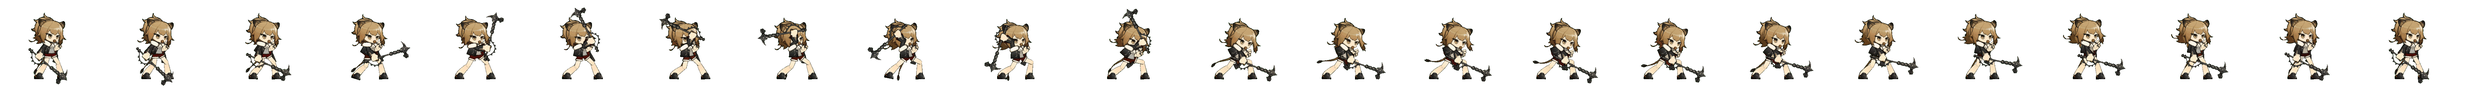
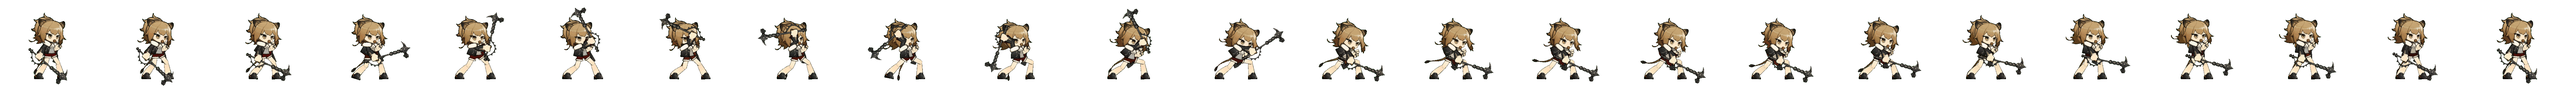
Did a bunch of stuff (i.e. skid)

Changed region(s): [[0.0, 0.086, 0.9975, 0.9176]]

diff --git a/src/siegeGame/Player.java b/src/siegeGame/Player.java
@@ -4,11 +4,13 @@ import java.awt.Color;
 import java.awt.Graphics2D;
 import java.awt.Image;
 import java.awt.Toolkit;
+import java.awt.geom.AffineTransform;
 import java.awt.geom.Point2D;
 import java.util.ArrayList;
 
 public class Player {
 	public boolean debug = true;
+	public final double GRAVITY = 1.5;
 
 	public static Image walk = Toolkit.getDefaultToolkit().getImage("assets/walk.png");
 	public static Image IDLE = Toolkit.getDefaultToolkit().getImage("assets/idle.png");
@@ -20,6 +22,7 @@ public class Player {
 	public static Image strike = Toolkit.getDefaultToolkit().getImage("assets/air_strike.png");
 	public static Image landing = Toolkit.getDefaultToolkit().getImage("assets/landing.png");
 	public static Image attack = Toolkit.getDefaultToolkit().getImage("assets/attack_fast.png");
+	public static Image[] skid = {Toolkit.getDefaultToolkit().getImage("assets/skid.png"),Toolkit.getDefaultToolkit().getImage("assets/skid2.png")};
 
 	private int direction = 1;
 	private double xspeed = 0;
@@ -78,6 +81,18 @@ public class Player {
 					width = MakeSureImageHasLoaded(attack);
 					System.out.println("Has set up normally" + width);
 				}
+				if (animationFrame == 10) {
+					isHitbox = true;
+					hitboxes.get(0).setActive(true, direction);
+					hitboxes.get(1).setActive(true, direction);
+				} else if (animationFrame == 12) {
+					hitboxes.get(0).setActive(false, direction);
+					hitboxes.get(1).setActive(false, direction);
+					hitboxes.get(2).setActive(true, direction);
+				} else if (animationFrame == 13) {
+					hitboxes.get(2).setActive(false, direction);
+					isHitbox = false;
+				}
 
 				if (direction == 1) {
 					g2.drawImage(attack, x - 115, y - 85 - 155, offset + x - 115, y + 340 - 85 - 155,
@@ -90,6 +105,7 @@ public class Player {
 				// check if end of animation without hardcoding number of frames
 				if (offset * animationFrame + 300 > width) {
 					state = State.GROUNDED;
+					animationFrame = 0;
 					System.out.println("Exited normally");
 				}
 			}
@@ -97,6 +113,10 @@ public class Player {
 				int offset = 300;
 				// Check if this is the first frame of the new animation
 				if (previousAnimation != Animation.JUMPSQUAT) {
+					isHitbox = false;
+					for (Hitbox box : hitboxes) {
+						box.setActive(false, direction);
+					}
 					animationFrame = 0;
 					previousAnimation = Animation.JUMPSQUAT;
 					width = MakeSureImageHasLoaded(jumpsquat);
@@ -109,7 +129,7 @@ public class Player {
 							y + 340 - 85 - 223, offset * animationFrame, 0, offset * animationFrame + offset, 340,
 							null);
 				}
-				animationFrame += 1;
+				animationFrame += 2;
 				// if (offset * animationFrame + 300 > width) {
 				// animationFrame -= 1;
 				// state = State.JUMPING;
@@ -118,6 +138,10 @@ public class Player {
 				int offset = 300;
 				// Check if this is the first frame of the new animation
 				if (previousAnimation != Animation.JUMPING) {
+					isHitbox = false;
+					for (Hitbox box : hitboxes) {
+						box.setActive(false, direction);
+					}
 					animationFrame = 0;
 					previousAnimation = Animation.JUMPING;
 					width = MakeSureImageHasLoaded(jumping);
@@ -214,6 +238,7 @@ public class Player {
 			} else if (state == State.LANDING) {
 				int offset = 300;
 				if (previousAnimation != Animation.LANDING) {
+					isHitbox = false;
 					for (Hitbox box : hitboxes) {
 						box.setActive(false, direction);
 					}
@@ -228,7 +253,7 @@ public class Player {
 					g2.drawImage(landing, offset + x - 36 - 67 - 32, y - 85 - 223, x - 36 - 67 - 32, y + 340 - 85 - 223,
 							offset * animationFrame, 0, offset * animationFrame + offset, 340, null);
 				}
-				animationFrame += 1;
+				animationFrame += 2;
 				if (offset * animationFrame + 300 > width) {
 					state = State.GROUNDED;
 				}
@@ -259,12 +284,30 @@ public class Player {
 				previousAnimation = Animation.WALKING;
 				width = MakeSureImageHasLoaded(walk);
 			}
-			if (direction == 1) {
-				g2.drawImage(walk, x - 5 - 67, y + 4 - 223, x + 195 - 67, y + 250 + 4 - 223, offset * animationFrame, 0,
-						offset * animationFrame + 200, 250, null);
+			// Special skidding animation for high speeds
+			if (Math.abs(xspeed)>10) {
+				// This is kind of slow, but only runs when skidding so it's probably fine
+				AffineTransform trans = new AffineTransform();
+				// trans rights
+				if (direction == 1) {
+					trans.translate((double)(x+72),(double)(y ));
+					trans.rotate( Math.toRadians(Math.abs(8-animationFrame)-10) );
+					trans.translate(-144, 15-223);
+					g2.drawImage(skid[0],trans,null);
+				} else {
+					trans.translate((double)(x),(double)(y ));
+					trans.rotate( Math.toRadians(-Math.abs(8-animationFrame)+10) );
+					trans.translate(-72, 15-223);
+					g2.drawImage(skid[1],trans,null);
+				}
 			} else {
-				g2.drawImage(walk, x + 195 - 67 - 4, y + 4 - 223, x - 5 - 67 - 4, y + 250 + 4 - 223,
-						offset * animationFrame, 0, offset * animationFrame + 200, 250, null);
+				if (direction == 1) {
+					g2.drawImage(walk, x - 5 - 67, y + 4 - 223, x + 195 - 67, y + 250 + 4 - 223, offset * animationFrame, 0,
+							offset * animationFrame + 200, 250, null);
+				} else {
+					g2.drawImage(walk, x + 195 - 67 - 4, y + 4 - 223, x - 5 - 67 - 4, y + 250 + 4 - 223,
+							offset * animationFrame, 0, offset * animationFrame + 200, 250, null);
+				}
 			}
 			animationFrame += 1;
 			if (offset * animationFrame + 300 > width) {
@@ -319,14 +362,16 @@ public class Player {
 			xspeed = 0;
 		}
 
-		// todo this needs checking
-		attack_cooldown -= 1;
-		if (isAttack && state == State.GROUNDED && attack_cooldown < 1) {
-			attack_cooldown = 23;
+		// Check for start of attack
+		//attack_cooldown -= 1;
+		if (isAttack && state == State.GROUNDED) {
+			System.out.println("Attacking");
+			//attack_cooldown = 19;
 			state = State.BASIC_ATTACK;
 		}
+		// Handle movement while attacking
 		if (state == State.BASIC_ATTACK) {
-			xspeed*=.7;
+			xspeed*=.8;
 			litx += xspeed;
 		}
 		// System.out.println("start"+xspeed);
@@ -351,14 +396,17 @@ public class Player {
 		}
 
 		// if not GROUNDED
-		if (state != State.GROUNDED && state!=State.BASIC_ATTACK) {
-			// if not in JUMPSQUAT, increased movement
+		if (state != State.GROUNDED) {
+			// if not in JUMPSQUAT, then in the air; this handles air maneuverability
 			if (state == State.JUMPING || state == State.HOVERING || state == State.DESCENDING) {
 				// System.out.println("Airborne"+xspeed);
 				if (state == State.HOVERING && isJump) {
-					yspeed -= .75;
+					yspeed += .25;
+				} else if (state == State.JUMPING && isJump) {
+					yspeed += GRAVITY-.5;
+				} else {
+					yspeed += GRAVITY;
 				}
-				yspeed += 1;
 				lity += yspeed;
 				xspeed = xspeed + (xMove);
 				litx += xspeed;
@@ -387,16 +435,25 @@ public class Player {
 			} else { // if in JUMPSQUAT, move slowly
 			}
 		} // transition from GROUNDED to jump squat
-		else if (isJump && (state == State.GROUNDED || state == State.BASIC_ATTACK)) {
-			System.out.println("Starting to jump");
-
+		else if (isJump && state == State.GROUNDED) {
+			//System.out.println("Starting to jump");
 			state = State.JUMPSQUAT;
 			xspeed *= .9;
 			litx += xspeed;
-		} // if GROUNDED and not in JUMPSQUAT
+		} // if GROUNDED and not in JUMPSQUAT, then handle walking stuff
 		else {
 			// System.out.println("WALKING");
 			xspeed = xMove * 5.5;
+			if (isShift) {
+				xspeed *= 3;
+			}
+			litx += xspeed;
+		}
+		
+		// All good games have jump-cancelling
+		if (isJump && state == State.BASIC_ATTACK) {
+			state = State.JUMPSQUAT;
+			xspeed *= .8;
 			litx += xspeed;
 		}
 
@@ -412,18 +469,11 @@ public class Player {
 				yoffset = -16 * (5 - (animationFrame - 5));
 			}
 		}
-		Point2D.Double left = new Point2D.Double(litx - Screen.scrollx - 15, lity - 45 - Screen.scrolly + yoffset);
-		Point2D.Double left2 = new Point2D.Double(litx - Screen.scrollx - 15, lity - 150 - Screen.scrolly + yoffset);
-		Point2D.Double right = new Point2D.Double(litx - Screen.scrollx + 77, lity - 45 - Screen.scrolly + yoffset);
-		Point2D.Double right2 = new Point2D.Double(litx - Screen.scrollx + 77, lity - 150 - Screen.scrolly + yoffset);
-		int wallLevel = screen.checkHorizontalCollision(left, left2, right, right2);
-		if (wallLevel != -1000001) {
-			litx = wallLevel + Screen.scrollx;
-			xspeed = 0;
-		}
 
+		// Check if (airborne) player has their HEAD in a CEILING or are about to LAND
 		if (state != State.GROUNDED && state != State.JUMPSQUAT && state != State.LANDING
 				&& state != State.BASIC_ATTACK) {
+			// Find location of head (animation dependent)
 			Point2D.Double leftHead;
 			Point2D.Double rightHead;
 			if (state == State.HOVERING) {
@@ -437,10 +487,12 @@ public class Player {
 				leftHead = new Point2D.Double(litx - Screen.scrollx, lity - 180 - Screen.scrolly);
 				rightHead = new Point2D.Double(litx - Screen.scrollx + 62, lity - 180 - Screen.scrolly);
 			}
+			// Check if head in ceiling
 			int ceilingLevel = screen.checkCeilingCollision(leftHead, rightHead);
 			if (ceilingLevel != -1000001) {
+				// If so, stop upwards movement and move player to below the collision point.
 				yspeed = 0;
-				lity = ceilingLevel + 180 + Screen.scrolly - yoffset + 5;
+				lity = ceilingLevel + 180 + Screen.scrolly - yoffset; //+ 5;
 			}
 
 			Point2D.Double leftFoot = new Point2D.Double(litx - Screen.scrollx, lity - Screen.scrolly + yoffset);
@@ -457,10 +509,24 @@ public class Player {
 				}
 			}
 		}
+		
+		// Check if player is inside of a WALL. If so, shunt them back to in front of it.
+		Point2D.Double left = new Point2D.Double(litx - Screen.scrollx - 15, lity - 45 - Screen.scrolly + yoffset);
+		Point2D.Double left2 = new Point2D.Double(litx - Screen.scrollx - 15, lity - 150 - Screen.scrolly + yoffset);
+		Point2D.Double right = new Point2D.Double(litx - Screen.scrollx + 77, lity - 45 - Screen.scrolly + yoffset);
+		Point2D.Double right2 = new Point2D.Double(litx - Screen.scrollx + 77, lity - 150 - Screen.scrolly + yoffset);
+		int wallLevel = screen.checkHorizontalCollision(left, left2, right, right2);
+		if (wallLevel != -1000001) {
+			litx = wallLevel + Screen.scrollx;
+			xspeed = 0;
+		}
+		
+		// Check case where grounded player walks off of the ground (i.e. ledge)
 		if ((state == State.GROUNDED || state == State.BASIC_ATTACK) || doLandingCheck) {
 			Point2D.Double leftFoot = new Point2D.Double(litx - Screen.scrollx, lity - Screen.scrolly);
 			Point2D.Double rightFoot = new Point2D.Double(litx - Screen.scrollx + 62, lity - Screen.scrolly);
 			int groundLevel = screen.checkLandingCollision(leftFoot, rightFoot);
+			// This means that nothing is below the player
 			if (groundLevel == 1000001) {
 				if (screen.checkDescendingStairs(new Point2D.Double(leftFoot.getX(), leftFoot.getY() + 10),
 						new Point2D.Double(rightFoot.getX(), rightFoot.getY() + 10))) {

diff --git a/src/siegeGame/Screen.java b/src/siegeGame/Screen.java
@@ -126,8 +126,11 @@ public class Screen extends JPanel {
 			player.draw(g2);
 
 		} else if (state == GameState.TITLE) {
+			g2.setColor(Color.BLACK);
+			g2.fillRect(0, 0, 2000, 1500);
 			g2.setFont(font);
 			g2.drawImage(title, 0, 0, null);
+			g2.setColor(Color.WHITE);
 			g2.drawString("Press Enter", Main.screenSize.width / 3, Main.screenSize.height / 2);
 			for (Tile tile : area) {
 				tile.draw(g2);
@@ -543,7 +546,7 @@ public class Screen extends JPanel {
 					isJump = true;
 				}
 				break;
-			case KeyEvent.VK_Q:
+			case KeyEvent.VK_E:
 				if (state == GameState.LEVEL) {
 					isAttack = true;
 				}
@@ -565,6 +568,8 @@ public class Screen extends JPanel {
 				break;
 			case 16:
 				isShift = true;
+				break;
+			case KeyEvent.VK_R:
 				scrollx = 0;
 				scrolly = 100;
 				player.litx = 0;
@@ -576,7 +581,7 @@ public class Screen extends JPanel {
 			case KeyEvent.VK_D:
 				right = 1;
 				break;
-			case KeyEvent.VK_E:
+			case KeyEvent.VK_Q:
 				if (player.debug) {
 					player.debug = false;
 				} else {
@@ -647,7 +652,7 @@ public class Screen extends JPanel {
 			case KeyEvent.VK_SPACE:
 				isJump = false;
 				break;
-			case KeyEvent.VK_Q:
+			case KeyEvent.VK_E:
 				isAttack = false;
 				break;
 			case 16:
